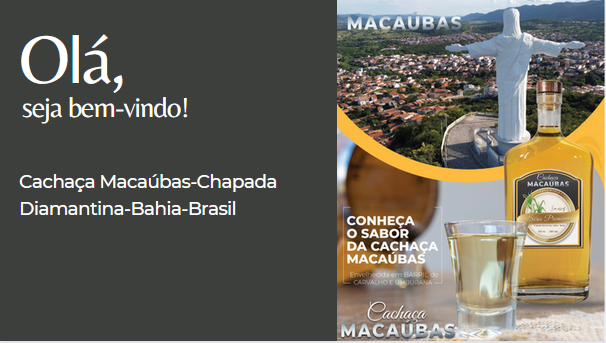
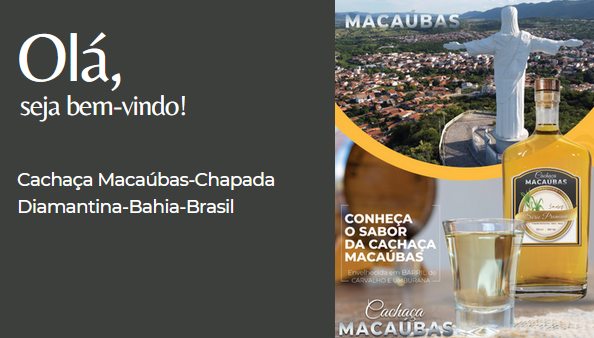
ajust imgs

Changed region(s): [[0.0, 0.0, 1.0, 1.0], [0.0303, 0.503, 0.4848, 0.6509], [0.0303, 0.0888, 0.3333, 0.355]]

diff --git a/index.html b/index.html
@@ -126,6 +126,8 @@
           </div><!-- /.col-lg-4 -->
         </div><!-- /.row -->
 
+        <section class="spacing"> </section>
+
 
         <!-- COMEÇAM AS MENCIONADAS FEATUREZINHAS xD -->
 
@@ -162,7 +164,7 @@
 <footer id="footer">
     <div class="footer-container">
         <div class="container">
-            <div class="social-links">
+            <div class="social-links border-bottom">
               <p>Siga-me nas redes sociais :</p>
[2 lines of base64/hex data omitted]

diff --git a/styles.js b/styles.js
@@ -40,7 +40,7 @@
                 imageSubtitle: '750 ml – 38% Vol.',
                 price: 34.00,
                 image: 'imgs/slider-principal/garrafas/04-serie prata.webp',
-                description: 'Caixa com 12 unidades – R$340.00.',
+                description: 'Caixa com 12 unidades – R$340,00.',
                 whatsappLink: 'https://wa.me/7799899478?text=Ol%C3%A1%2C%20quero%20comprar%20o%20Produto%203!'
             },
             {

diff --git a/styles.css b/styles.css
@@ -1,5 +1,9 @@
 *{
-    font-family: 'Cormorant Garamond', serif;
+    /* font-family: 'Cormorant Garamond', serif; */
+    
+    font-family: 'Montserrat', sans-serif;
+
+
 
     color: white;
     text-decoration: none;
